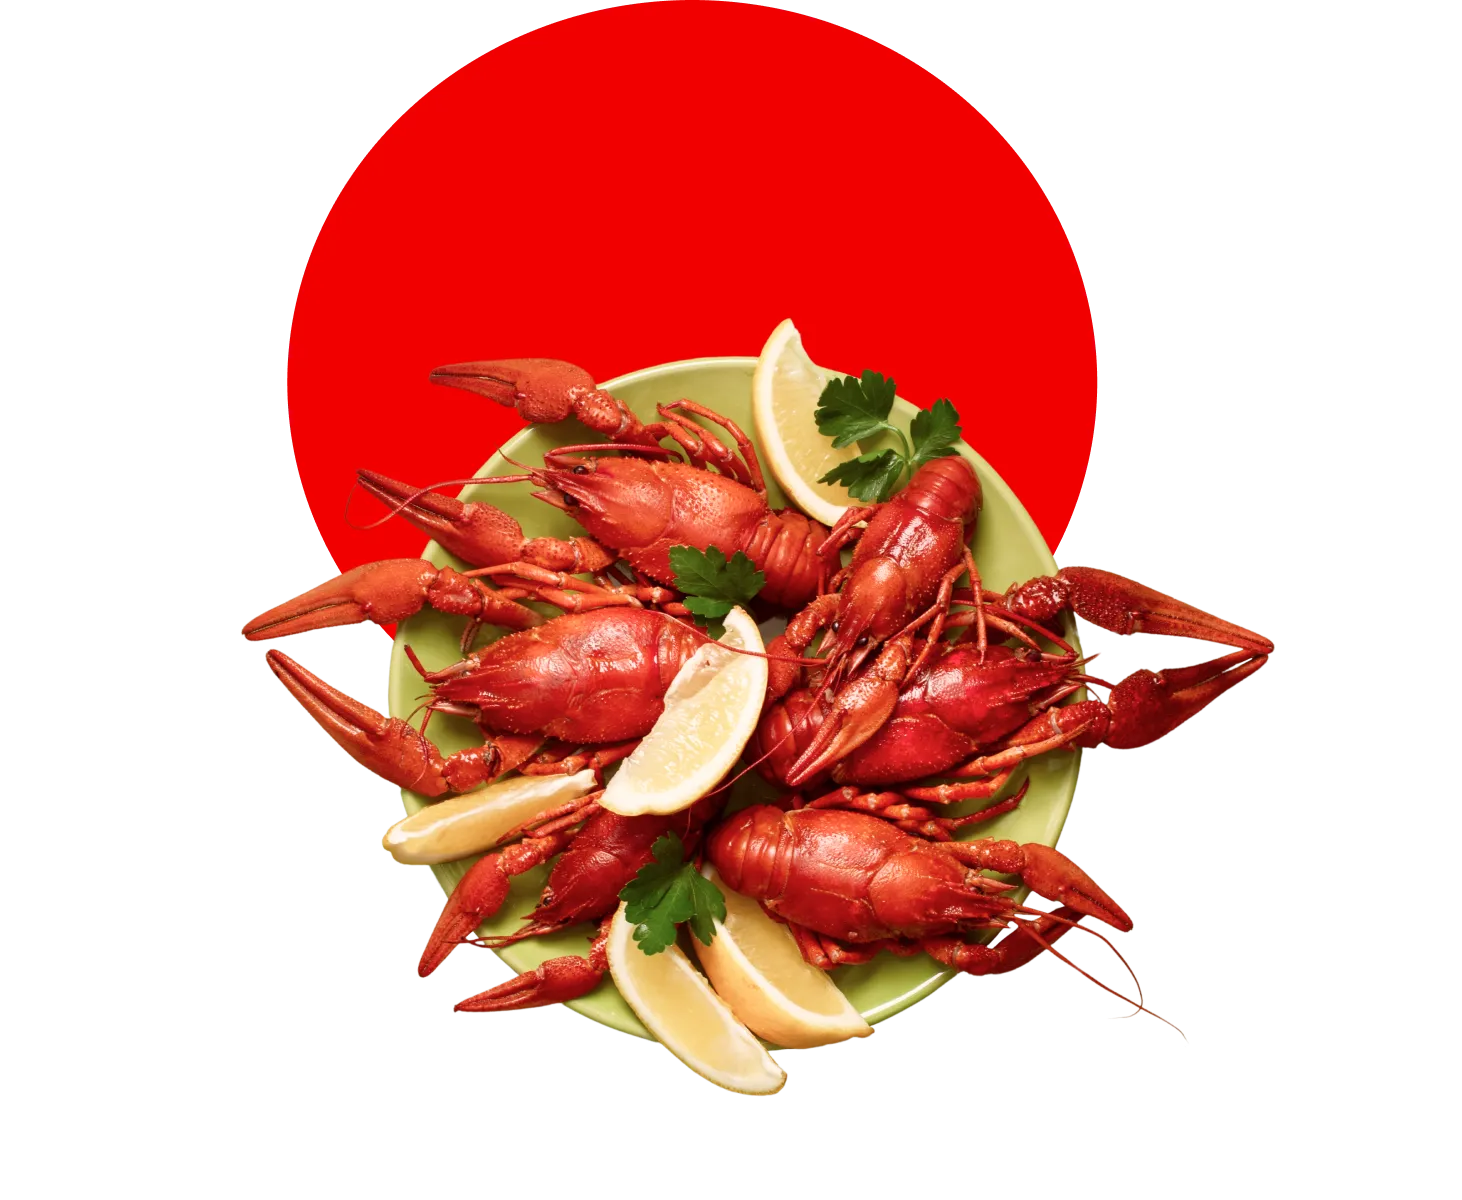
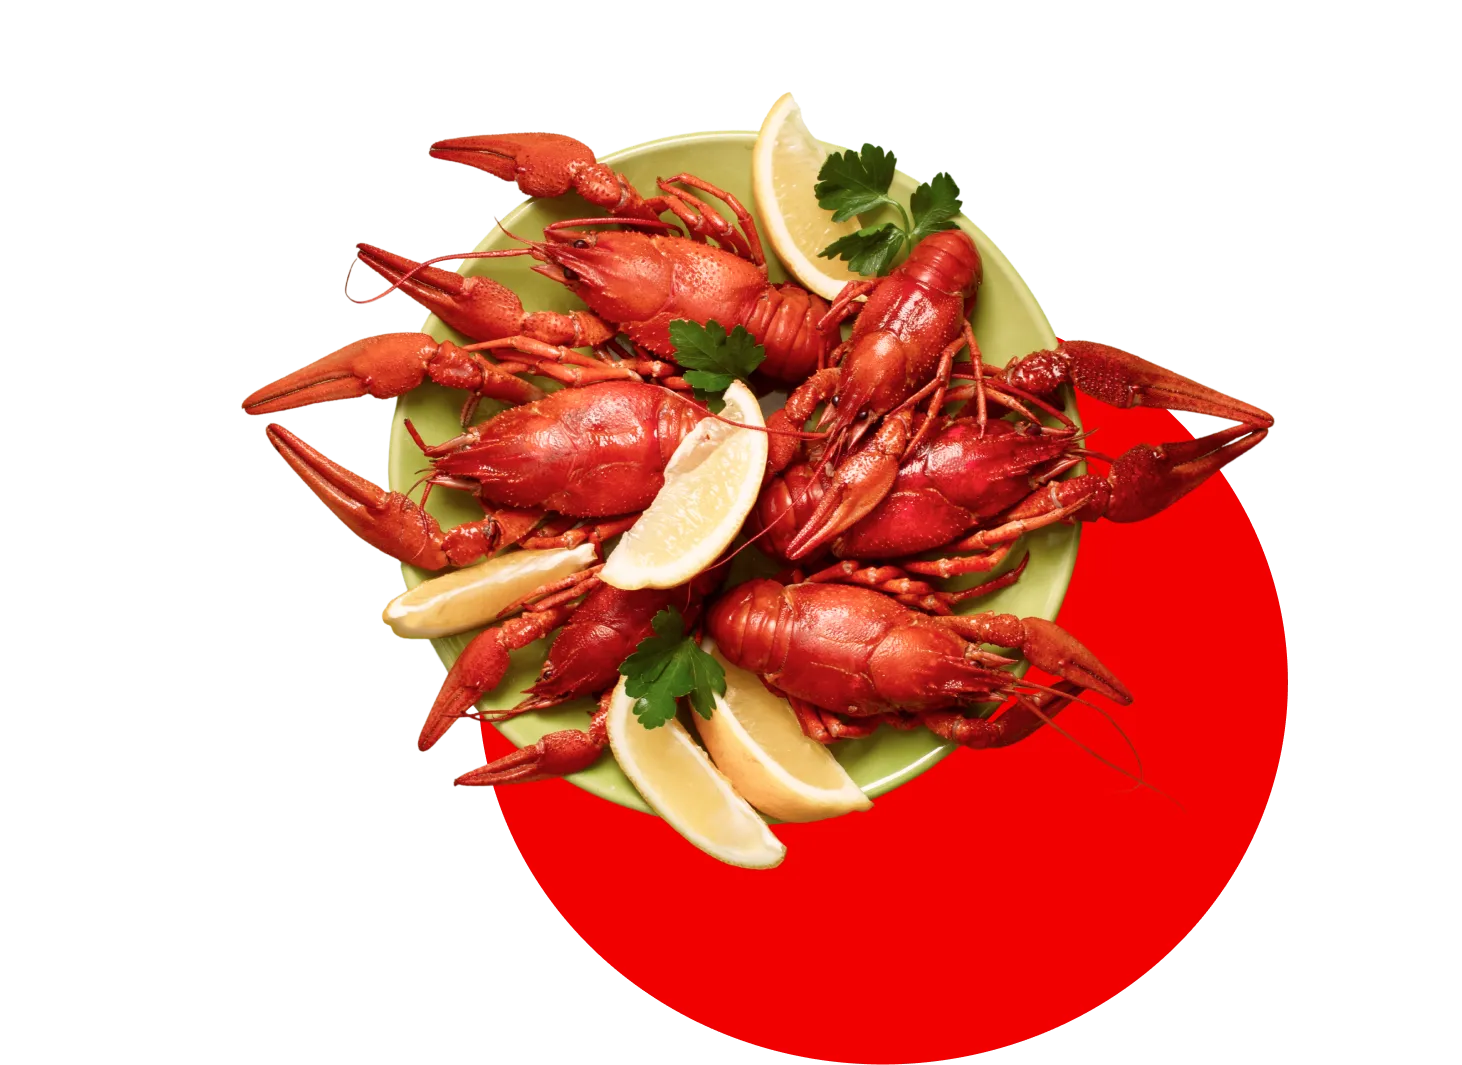
updated hero styles and images

diff --git a/src/components/delivery/DeliveryHero.tsx b/src/components/delivery/DeliveryHero.tsx
@@ -39,10 +39,10 @@ export default async function DeliveryHero() {
             loading="eager"
             fetchPriority="high"
           />
-          {/* <div className="absolute top-[385px] left-[-300px] w-[502px] h-[508px] rounded-full bg-[#00152E] blur-[30px]" /> */}
+          <div className="absolute bottom-[-174px] left-[-170px] w-[413px] h-[657px] rounded-full bg-[#02060B] blur-[62px]" />
         </div>
 
-        <div className="absolute top-[-340px] md:top-[-280px] right-[-450px] md:right-[-320px] lg:right-[-200px] w-[731px] h-[600px]">
+        <div className="absolute top-[-350px] md:top-[-414px] right-[-400px] xs:right-[-340px] sm:right-[-300px] md:right-[-260px] lg:right-[-200px] xl:right-[-140px] w-[731px] h-[533px]">
           <Image
             src="/images/delivery/hero/right-image.webp"
             alt=""
@@ -51,6 +51,7 @@ export default async function DeliveryHero() {
             loading="eager"
             fetchPriority="high"
           />
+          <div className="absolute rotate-3 top-[-114px] left-[-30px] w-[657px] h-[413px] rounded-full bg-[#02060B] blur-[62px]" />
         </div>
 
         <div className="relative flex flex-col gap-4 max-w-[463px] mx-auto">
